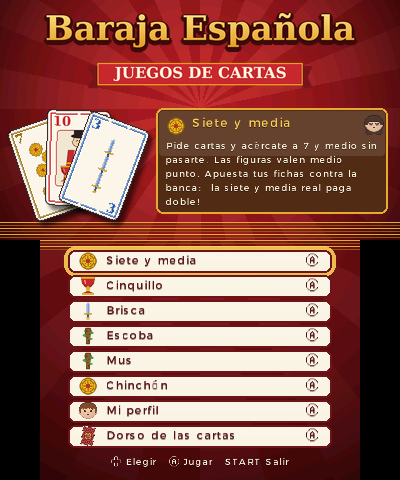
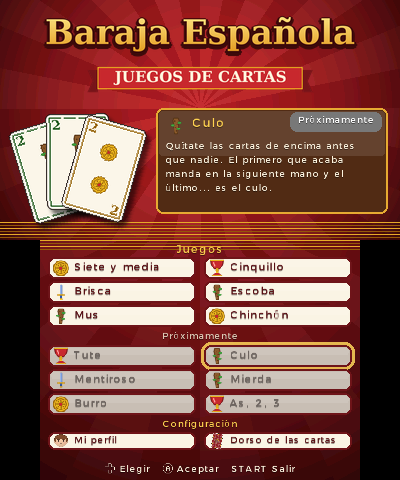
Menú con apartados de juegos, próximamente y configuración
- Juegos en dos columnas; Tute, Culo, Mentiroso, Mierda, Burro y As, 2, 3
  aparecen como próximamente
- Mi perfil y Dorso de las cartas pasan a Configuración, en pequeño

Claude-Session: https://claude.ai/code/session_013AGSh6QGdQokmtkYD1xhrB

diff --git a/source/scenes/menu.c b/source/scenes/menu.c
@@ -43,6 +43,27 @@ static const MenuEntry entries[] = {
 	  "Forma tríos y escaleras del mismo palo. Cierra con todo ligado (menos diez) o con una suelta "
 	  "pequeña. Siete seguidas del mismo palo: ¡chinchón! Pierde quien pase de 100.",
 	  SCENE_CHINCHON, SUIT_OROS, { C(ESPADAS, 4), C(ESPADAS, 5), C(ESPADAS, 6) }, { CPU_LUCIA, -1, -1 } },
+	{ "Tute",
+	  "Juego de bazas con triunfo. Canta las veinte y las cuarenta con el rey y el caballo del mismo palo, "
+	  "¡o el tute con los cuatro reyes o los cuatro caballos!",
+	  SCENE_COUNT, SUIT_COPAS, { C(COPAS, RANK_CABALLO), C(COPAS, RANK_REY), C(OROS, 1) }, { -1, -1, -1 } },
+	{ "Culo",
+	  "Quítate las cartas de encima antes que nadie. El primero que acaba manda en la siguiente mano "
+	  "y el último... es el culo.",
+	  SCENE_COUNT, SUIT_BASTOS, { C(BASTOS, 2), C(BASTOS, 2), C(OROS, 2) }, { -1, -1, -1 } },
+	{ "Mentiroso",
+	  "Echa cartas boca abajo diciendo lo que son... aunque sea mentira. Si te pillan, te llevas el montón.",
+	  SCENE_COUNT, SUIT_ESPADAS, { C(ESPADAS, 4), C(OROS, 4), C(COPAS, 4) }, { -1, -1, -1 } },
+	{ "Mierda",
+	  "Otro clásico de la baraja española que llegará en una próxima versión.",
+	  SCENE_COUNT, SUIT_BASTOS, { C(BASTOS, 7), C(COPAS, 1), C(ESPADAS, 6) }, { -1, -1, -1 } },
+	{ "Burro",
+	  "Juego de cartas para reírse en grupo. El que pierde va sumando letras hasta formar BURRO.",
+	  SCENE_COUNT, SUIT_OROS, { C(OROS, 6), C(COPAS, 6), C(BASTOS, 6) }, { -1, -1, -1 } },
+	{ "As, 2, 3",
+	  "Otro juego de la baraja española que llegará en una próxima versión.",
+	  SCENE_COUNT, SUIT_COPAS, { C(OROS, 1), C(COPAS, 2), C(ESPADAS, 3) }, { -1, -1, -1 } },
+	/* Configuración */
 	{ "Mi perfil",
 	  "Tu Mii, tus estadísticas y tus rivales: los Miis de tu consola (o los Miis invitados) "
 	  "que juegan contra ti en cada mesa.",
@@ -54,21 +75,53 @@ static const MenuEntry entries[] = {
 };
 
 #define NUM_ENTRIES ((int)(sizeof entries / sizeof entries[0]))
+#define NUM_CONFIG 2
+#define NUM_GAMES (NUM_ENTRIES - NUM_CONFIG)
+#define GAME_ROWS ((NUM_GAMES + 1) / 2)
 
-#define ITEM_X 28
-#define ITEM_Y 10
-#define ITEM_W 264
-#define ITEM_H 23
-#define ITEM_STEP 25
+/* Juegos y próximos juegos: cuadrículas de dos columnas. Configuración: dos
+ * botones pequeños debajo. */
+#define NUM_READY   6 /* los primeros juegos ya se pueden jugar */
+#define COL_X(c)    (8.0f + (c) * 156.0f)
+#define HEAD_H      15.0f
+#define GAME_Y      (2.0f + HEAD_H)
+#define GAME_W      148.0f
+#define GAME_H      22.0f
+#define GAME_STEP   24.0f
+#define SOON_HEAD   (GAME_Y + NUM_READY / 2 * GAME_STEP + 1.0f)
+#define SOON_Y      (SOON_HEAD + HEAD_H)
+#define CONFIG_HEAD (SOON_Y + (NUM_GAMES - NUM_READY + 1) / 2 * GAME_STEP + 1.0f)
+#define CONFIG_Y    (CONFIG_HEAD + 14.0f)
+#define CONFIG_H    18.0f
 
 static int s_selected;
 static Mood s_mood;
-static float s_cursor_y;
+static float s_cursor_x, s_cursor_y;
 static float s_shake; /* sacudida al elegir un juego no disponible */
+
+static bool is_config(int i)
+{
+	return i >= NUM_GAMES;
+}
+
+static void item_rect(int i, float* x, float* y, float* w, float* h)
+{
+	if (is_config(i)) {
+		*x = COL_X(i - NUM_GAMES);
+		*y = CONFIG_Y;
+		*h = CONFIG_H;
+	} else {
+		*x = COL_X(i % 2);
+		*y = i < NUM_READY ? GAME_Y + (i / 2) * GAME_STEP : SOON_Y + ((i - NUM_READY) / 2) * GAME_STEP;
+		*h = GAME_H;
+	}
+	*w = GAME_W;
+}
 
 static void menu_enter(void)
 {
-	s_cursor_y = ITEM_Y + s_selected * ITEM_STEP;
+	float w, h;
+	item_rect(s_selected, &s_cursor_x, &s_cursor_y, &w, &h);
 }
 
 static SceneId launch(int i)
@@ -82,20 +135,34 @@ static SceneId launch(int i)
 	return entries[i].scene;
 }
 
+/* Movimiento con la cruceta por la cuadrícula de juegos y la fila de configuración */
+static int move(int i, int dx, int dy)
+{
+	int col = is_config(i) ? i - NUM_GAMES : i % 2;
+	int row = is_config(i) ? GAME_ROWS : i / 2;
+	col = (col + dx + 2) % 2;
+	row = (row + dy + GAME_ROWS + 1) % (GAME_ROWS + 1);
+	if (row == GAME_ROWS)
+		return NUM_GAMES + col;
+	int next = row * 2 + col;
+	return next < NUM_GAMES ? next : NUM_GAMES - 1;
+}
+
 static SceneId menu_update(const Input* in, float dt)
 {
 	if (s_shake > 0.0f)
 		s_shake -= dt;
 	mood_update(&s_mood, dt);
-	if (in->repeat & KEY_DOWN) {
-		s_selected = (s_selected + 1) % NUM_ENTRIES;
+	int dx = (in->repeat & KEY_RIGHT) ? 1 : (in->repeat & KEY_LEFT) ? -1 : 0;
+	int dy = (in->repeat & KEY_DOWN) ? 1 : (in->repeat & KEY_UP) ? -1 : 0;
+	if (dx || dy) {
+		s_selected = move(s_selected, dx, dy);
 		audio_play(SFX_SELECT);
 	}
-	if (in->repeat & KEY_UP) {
-		s_selected = (s_selected + NUM_ENTRIES - 1) % NUM_ENTRIES;
-		audio_play(SFX_SELECT);
-	}
-	s_cursor_y = approach(s_cursor_y, ITEM_Y + s_selected * ITEM_STEP, 18.0f, dt);
+	float x, y, w, h;
+	item_rect(s_selected, &x, &y, &w, &h);
+	s_cursor_x = approach(s_cursor_x, x, 18.0f, dt);
+	s_cursor_y = approach(s_cursor_y, y, 18.0f, dt);
 
 	if (in->down & KEY_A)
 		return launch(s_selected);
@@ -103,7 +170,8 @@ static SceneId menu_update(const Input* in, float dt)
 		return SCENE_QUIT;
 
 	for (int i = 0; i < NUM_ENTRIES; i++) {
-		if (input_touch_in(in, ITEM_X, ITEM_Y + i * ITEM_STEP, ITEM_W, ITEM_H)) {
+		item_rect(i, &x, &y, &w, &h);
+		if (input_touch_in(in, x, y, w, h)) {
 			s_selected = i;
 			return launch(i);
 		}
@@ -154,42 +222,49 @@ static void menu_draw_top(void)
 		k++;
 	}
 	gfx_text_wrap(e->description, 166, 140, DEPTH_UI, 0.42f, COLOR_CREAM, 214);
+	if (e->scene == SCENE_COUNT) {
+		gfx_rrect(290, 112, 92, 20, 7, DEPTH_UI, C2D_Color32(120, 120, 120, 255));
+		gfx_text("Próximamente", 336, 114, DEPTH_UI, 0.45f, COLOR_WHITE, C2D_AlignCenter);
+	}
 }
 
 static void menu_draw_bottom(void)
 {
 	gfx_background(BG_MENU_BOTTOM);
+	gfx_text("Juegos", BOTTOM_W / 2, 2, 0, 0.55f, COLOR_GOLD, C2D_AlignCenter);
+	gfx_text("Próximamente", BOTTOM_W / 2, SOON_HEAD, 0, 0.45f, C2D_Color32(220, 200, 180, 255), C2D_AlignCenter);
+	gfx_text("Configuración", BOTTOM_W / 2, CONFIG_HEAD, 0, 0.45f, COLOR_GOLD, C2D_AlignCenter);
 
 	float shake = s_shake > 0.0f ? sinf(s_shake * 60.0f) * 4.0f : 0.0f;
 
 	/* Cursor */
+	float cx, cy, cw, ch;
+	item_rect(s_selected, &cx, &cy, &cw, &ch);
 	float pulse = 0.5f + 0.5f * sinf(gfx_time() * 5.0f);
-	gfx_rrect(ITEM_X - 4 + shake, s_cursor_y - 4, ITEM_W + 8, ITEM_H + 8, 12, 0,
+	gfx_rrect(s_cursor_x - 3 + shake, s_cursor_y - 3, cw + 6, ch + 6, 10, 0,
 		C2D_Color32(255, 215, 90, (u8)(150 + 100 * pulse)));
 
 	for (int i = 0; i < NUM_ENTRIES; i++) {
 		const MenuEntry* e = &entries[i];
 		bool available = e->scene != SCENE_COUNT;
-		float x = ITEM_X + (i == s_selected ? shake : 0.0f);
-		float y = ITEM_Y + i * ITEM_STEP;
-		u32 fill = available ? C2D_Color32(250, 244, 228, 255) : C2D_Color32(190, 180, 170, 255);
-		gfx_panel(x, y, ITEM_W, ITEM_H, 0, fill, C2D_Color32(110, 20, 25, 255));
+		bool small = is_config(i);
+		float x, y, w, h;
+		item_rect(i, &x, &y, &w, &h);
+		if (i == s_selected)
+			x += shake;
+		u32 fill = available ? C2D_Color32(250, 244, 228, 255) : C2D_Color32(200, 190, 180, 255);
+		gfx_panel(x, y, w, h, 0, fill, C2D_Color32(110, 20, 25, 255));
+		float icon = small ? 0.6f : 0.75f;
 		if (e->scene == SCENE_PROFILE)
-			mii_draw(&profile_get()->avatar, x + 20, y + ITEM_H / 2, 8, 0, EXPR_NORMAL, false);
+			mii_draw(&profile_get()->avatar, x + 13, y + h / 2, small ? 6 : 8, 0, EXPR_NORMAL, false);
 		else if (e->scene == SCENE_CARDBACK)
-			gfx_card_back(x + 20, y + ITEM_H / 2, 0.2f, 0.2f, 0.15f, 0, NULL);
+			gfx_card_back(x + 13, y + h / 2, 0.16f, 0.16f, 0.15f, 0, NULL);
 		else
-			gfx_sprite(SPR_SUIT_FIRST + e->icon, x + 20, y + ITEM_H / 2, 0.8f, 0);
-		gfx_text(e->name, x + 38, y + 3, 0, 0.55f,
+			gfx_sprite(SPR_SUIT_FIRST + e->icon, x + 13, y + h / 2, icon, 0);
+		gfx_text(e->name, x + 26, y + (small ? 2 : 3), 0, small ? 0.45f : 0.52f,
 			available ? C2D_Color32(90, 15, 20, 255) : C2D_Color32(110, 100, 95, 255), C2D_AlignLeft);
-		if (!available) {
-			gfx_rrect(x + ITEM_W - 96, y + 6, 88, 16, 6, 0, C2D_Color32(120, 120, 120, 255));
-			gfx_text("Próximamente", x + ITEM_W - 52, y + 7, 0, 0.4f, COLOR_WHITE, C2D_AlignCenter);
-		} else {
-			gfx_text(GLYPH_A, x + ITEM_W - 20, y + 3, 0, 0.55f, C2D_Color32(90, 15, 20, 255), C2D_AlignCenter);
-		}
 	}
-	gfx_text(GLYPH_DPAD " Elegir   " GLYPH_A " Jugar   START Salir", BOTTOM_W / 2, 216, 0, 0.45f, COLOR_CREAM,
+	gfx_text(GLYPH_DPAD " Elegir   " GLYPH_A " Aceptar   START Salir", BOTTOM_W / 2, 223, 0, 0.45f, COLOR_CREAM,
 		C2D_AlignCenter);
 }
 

diff --git a/README.md b/README.md
@@ -52,7 +52,7 @@ se sorprenden con una escoba, un chinchón o un órdago.
 
 ## Editor del dorso de las cartas
 
-En **Dorso de las cartas** (en el menú) diseñas la parte de atrás de las cartas,
+En **Configuración → Dorso de las cartas** (en el menú) diseñas la parte de atrás de las cartas,
 con una vista previa grande en la pantalla de arriba:
 
 - **Fondo**: 14 colores.
@@ -73,6 +73,10 @@ El juego compone el dorso en una textura con las capas que genera
 
 ## Juegos
 
+El menú tiene tres apartados: **Juegos**, **Próximamente** (los que todavía no se
+pueden jugar) y, en pequeño, **Configuración** (*Mi perfil* y *Dorso de las cartas*).
+
+
 | Juego | Estado |
 |---|---|
 | Siete y media | ✅ Disponible |
@@ -81,6 +85,12 @@ El juego compone el dorso en una textura con las capas que genera
 | Escoba | ✅ Disponible |
 | Mus | ✅ Disponible |
 | Chinchón | ✅ Disponible |
+| Tute | 🕓 Próximamente |
+| Culo | 🕓 Próximamente |
+| Mentiroso | 🕓 Próximamente |
+| Mierda | 🕓 Próximamente |
+| Burro | 🕓 Próximamente |
+| As, 2, 3 | 🕓 Próximamente |
 
 ### Siete y media
 Te enfrentas a la banca. Las cartas del 1 al 7 valen su número y las figuras
